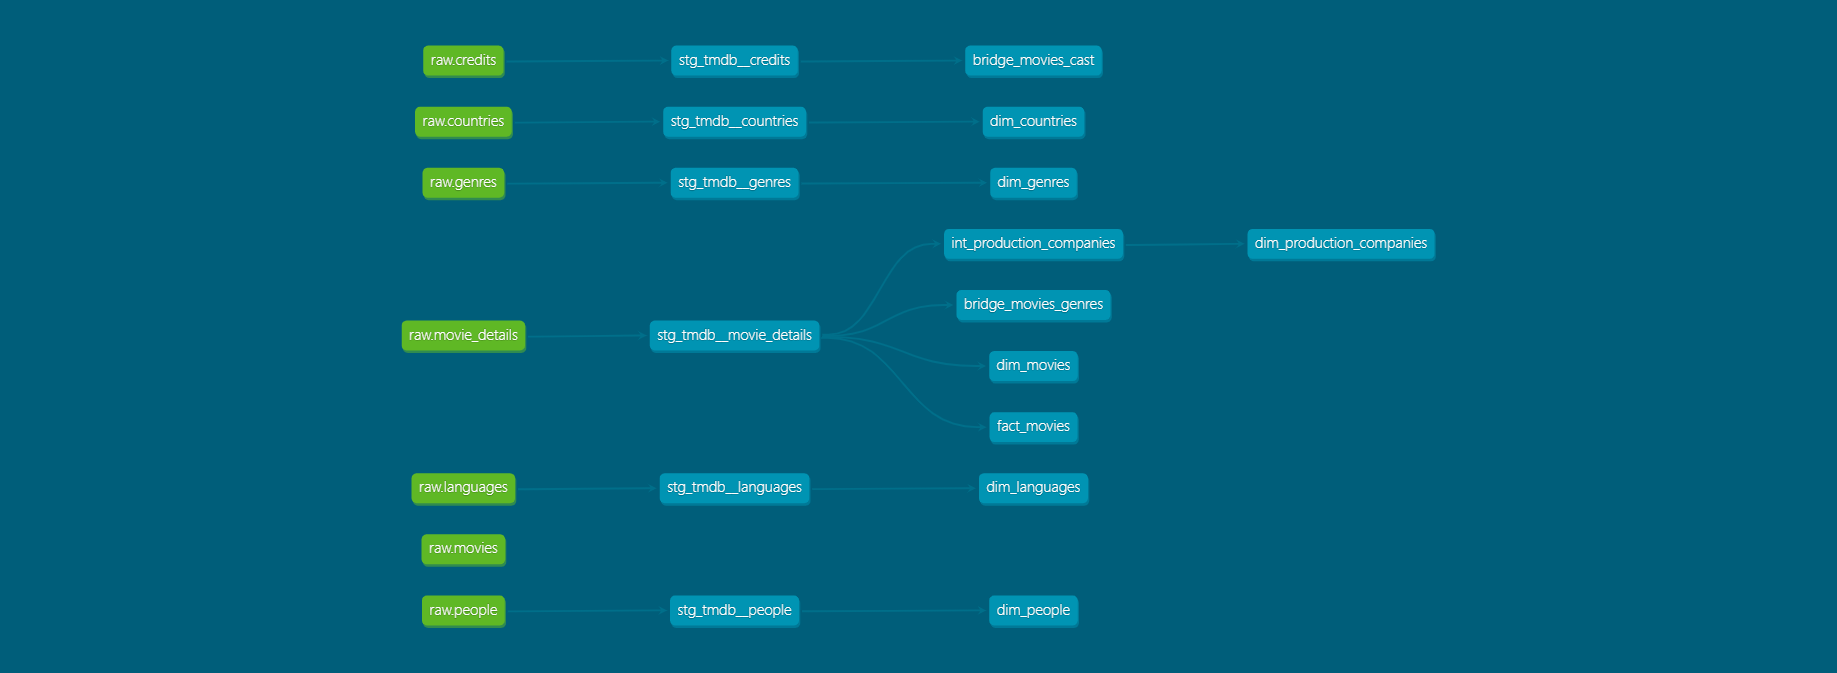
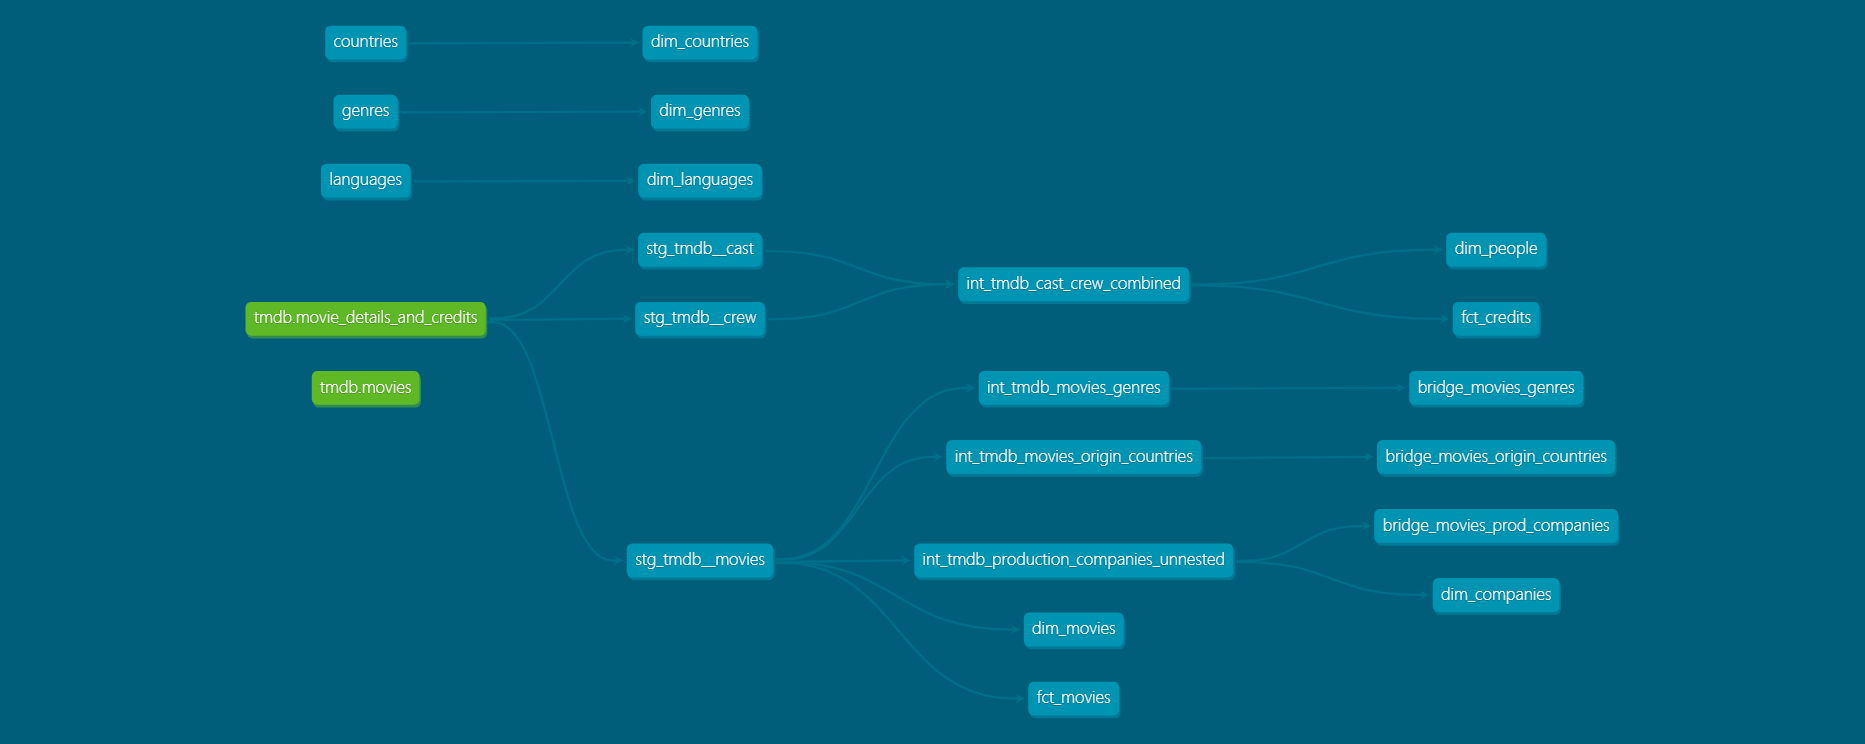
Update readme

diff --git a/README.md b/README.md
@@ -4,7 +4,7 @@
 
 # What This Is
 
-This is an end-to-end analytics pipeline built around movie data from the 2000s onward. I chose this domain because I enjoy movie analytics and wanted something meaningful to practice with. The project pulls data from the TMDB API, loads it into Postgres, and transforms it with dbt into a clean star schema that supports analyses on genres, actors, and box office performance.
+This is an end-to-end analytics pipeline built around movie data from the 2000s onward. I chose this domain because I enjoy movie analytics and wanted something meaningful to practice with. The project pulls data from the TMDB API, lands raw data in Parquet, and uses dbt (DuckDB adapter) to build a clean star schema for analytics.
 
 With this pipeline, you can run analyses such as:
 - Highest-ROI genres since the 2000s (revenue/budget)
@@ -18,7 +18,7 @@ These queries become straightforward because the project uses:
 - Data quality tests that catch common TMDB API issues such as missing people records or duplicated fields
 ## Current Status
 
-**What's working:** Core pipeline complete - Asynchronous API ingestion, dbt transformations with 17+ models, dimensional modeling with bridge tables, comprehensive data quality tests.
+**What's working:** Core pipeline complete - Asynchronous API ingestion, dbt transformations with 17 models, dimensional modeling with bridge tables, comprehensive data quality tests.
 
 **What I'm working on:** Refactoring ingestion to be modular
 
@@ -29,20 +29,23 @@ These queries become straightforward because the project uses:
 - **Data Source:** [TMDB API](https://developer.themoviedb.org/docs/getting-started)
 - **Storage:** DuckDB
 - **Transformation:** dbt core
-- **Frontend:** Rill (tentative) 
+- **Frontend:** (tentative) 
 
 
 ## How It Works
 
-This is a straightforward ELT pipeline: extract from TMDB API, load raw data into Parquet/CSV, transform with dbt, and visualize in Rill.
+This is a straightforward ELT pipeline: extract from TMDB API, load raw data into Parquet/CSV, transform with dbt, and visualize in a frontend (Rill, Tableau, etc).
 ```
-TMDB API → Python Extraction → Parquet/CSV → dbt (DuckDB) → Rill
+TMDB API → Python Extraction → Parquet/CSV → dbt (DuckDB) → Frontend
 ```
 
 **1. Data Ingestion (Python → Parquet/CSV)**
 
 Fetch data from TMDB API endpoints and write to local files:
-- **Movies and movie_details → Parquet** - Core movie data with credits appended via TMDB's `append_to_response` parameter (reduces API calls by fetching movie metadata + credits in one request)
+- **Movie details (with credits appended) → Parquet** - 
+Core movie metadata, genres, crew, and cast all in a single API call using append_to_response=credits.
+
+- **Discover movies → Parquet** used only to enumerate movie_ids
 - **Genres, countries, languages → CSV** - Static reference data loaded as dbt seed tables
 
 The extraction uses async requests to handle tens of thousands of records efficiently while respecting TMDB's rate limit (~40 requests per second). Added retry logic with exponential backoff for timeouts and network hiccups. Implemented with asyncio/aiohttp and tenacity.
@@ -65,9 +68,10 @@ Bridge tables normalize fields that are frequently filtered or aggregated (genre
 
 Every model has tests: primary key uniqueness, not-null constraints, referential integrity checks.
 
-**3. Analytics Frontend (Rill) - WIP**
+**3. Analytics Frontend (Tentative)**
 
 Building interactive dashboards to explore trends like ROI by genre, actor career earnings, and budget evolution over time.
+
 ## Data Models
 
 The project uses a **Kimball-inspired star schema** optimized for movie analytics queries.
@@ -76,10 +80,10 @@ The project uses a **Kimball-inspired star schema** optimized for movie analytic
 Analytical queries like "revenue by genre" or "top actors by box office" are just a couple of joins in a star schema vs 6-7 joins if everything was normalized. TMDB's data maps cleanly to dimensions and facts, and BI tools expect this structure.
 
 **Design decisions:**
-- **Bridge tables for cast, genres, and production_companies** - These many-to-many relationships are queried constantly ("top grossing actors", "best performing genres"), so I normalized them into proper bridge tables
-- **Exploded production companies from movie details** - TMDB's production_company endpoint was redundant with data already in movie_details, so I extracted and deduped companies directly from the nested JSON arrays in the intermediate layer
-- **JSON for less common fields** - Kept some fields such as 'spoken_languages' or 'production_countries' as JSON in `dim_movies` rather than creating additional bridge tables. These may not be queried as often and may clutter the mart layer.
-- **Popularity in `dim_people`** - Technically a metric, but currently used as a snapshot in time, so a dedicated table is unneeded for now. May change in the future if I decide to track and implement SCD2.
+- **Bridge tables for genres, production_companies, and origin_countries** - These many-to-many relationships are queried constantly ("best performing genres", "top studios by revenue", "films by country"), so I normalized them into proper bridge tables
+- **Unnested production companies from movie details** - TMDB's production_company endpoint was redundant with data already in movie_details, so I extracted and deduped companies directly from the nested JSON arrays in the intermediate layer
+- **JSON for spoken_languages, production_countries, and belongs_to_collection** - Kept these as JSON in `dim_movies` rather than creating another bridge table since it's rarely filtered on and would add unnecessary complexity
+- **Popularity as a snapshot** - Currently stored in `dim_people` as a point-in-time value. Since TMDB updates this metric daily, tracking it historically would be better suited to a dedicated `fct_popularity` table if I decide to implement time-series tracking
 
 **Key models:**
 
@@ -89,11 +93,12 @@ Analytical queries like "revenue by genre" or "top actors by box office" are jus
 - `dim_genres`, `dim_languages`, `dim_countries`, `dim_production_companies` - Reference data
 
 **Facts:**
-- `fact_movies` - Movie performance metrics: revenue, budget, vote counts (one row per movie)
+- `fct_movies` - Movie performance metrics: revenue, budget, vote counts (one row per movie)
+- `fct_credits` - Cast and crew assignments with role details (character, job title, department, cast order)
 
 **Bridges:**
-- `bridge_movies_cast` - Movies ↔ People with role details (character, cast order)
 - `bridge_movies_genres` - Movies ↔ Genres (many-to-many)
+- `bridge_movies_origin_countries` - Movies ↔ Origin Countries (many-to-many)
 - `bridge_movies_production_companies` - Movies ↔ Production Companies (many-to-many)
 
 ![dbt lineage graph](docs/images/dbt-dag.png)
@@ -103,8 +108,7 @@ Analytical queries like "revenue by genre" or "top actors by box office" are jus
 ### You'll Need
 
 - Python 3.8+
-- Docker & Docker Compose
-- dbt Core (`pip install dbt-postgres`)
+- dbt Core with DuckDB adapter (`pip install dbt-duckdb`)
 - A TMDB API key ([grab one here](https://www.themoviedb.org/settings/api))
 
 ### Setup
@@ -119,64 +123,64 @@ pip install -r requirements.txt
 **2. Environment config**
 ```bash
 cp .env.example .env
-# Edit .env with your TMDB API key and database credentials
+# Edit .env with your TMDB API key
 ```
 
-**3. Start the database**
-```bash
-docker-compose up -d
+**3. Configure dbt**
 
-# Check it's running
-docker ps
-```
-
-**4. Configure dbt**
-
-Copy the example profiles file and fill in your credentials:
+Copy the example profiles file:
 ```bash
 cp profiles.yml.example ~/.dbt/profiles.yml
-# Edit with your actual database credentials
 ```
 
 Or manually create `~/.dbt/profiles.yml`:
 ```yaml
-movie_data_analysis:
+tmdb_analytics:
   target: dev
   outputs:
     dev:
-      type: postgres
-      host: localhost
-      port: 5432
-      user: your_username
-      password: your_password
-      dbname: your_database_name
-      schema: your_schema_name
+      type: duckdb
+      path: '../data/tmdb_analytics.db'
       threads: 4
+      
+      extensions:
+        - parquet
+        - httpfs
 ```
 
-**5. Run the pipeline**
+**4. Run the pipeline**
 ```bash
-# Pull data from TMDB
+# Pull data from TMDB (writes to data/ directory)
 python ingestion/ingest_tmdb.py
 
 # Transform with dbt
 cd dbt
-dbt run
-dbt test
+dbt deps           # Install dbt packages (utils and expectations)
+dbt seed           # Load reference data (genres, languages, countries)
+dbt run            # Build models
+dbt test           # Run data quality tests
 
 # Check out the docs
 dbt docs generate
-dbt docs serve  # Opens on localhost:8080
+dbt docs serve     # Opens on localhost:8080
+```
+
+**What gets created:**
+- `data/tmdb_analytics.db` - DuckDB database with all transformed models
+- `data/*.parquet` - Raw movie and movie_details data
+- `data/seeds/*.csv` - Reference data for genres, languages, countries
 
 ## Project Structure
 
 ```
+├── data/ 
 ├── dbt/
 │   ├── models/
 │   │   ├── staging/      # Staging models and tests
 │   │   ├── intermediate/ # Intermediate models and tests
 │   │   └── marts/        # Mart models (dim/fact/bridge) and tests
-│   └── dbt_project.yml
+│   ├── dbt_project.yml
+|   └── packages.yml
 ├── ingestion/            # API Fetching and Database Loading
 ├── frontend/             # TODO
 ├── notebooks/            # Jupyter notebooks for quick EDA and data validation
@@ -184,21 +188,20 @@ dbt docs serve  # Opens on localhost:8080
 
 ## Things I Learned / Gotchas
 
-- [Something that was harder than expected]
-- [A library or pattern that saved you time]
-- [A design decision you'd change if starting over]
-- [An annoying bug or API quirk you had to work around]
+- **Async ingestion was a game-changer** - Switching from synchronous to asynchronous fetching cut ingestion time from 2+ hours to 30 minutes. The async overhead was worth it even for "just" API calls.
 
-Example:
-- "TMDB's rate limiting is aggressive - had to add exponential backoff"
-- "Bridge tables felt like overkill at first but make genre queries so much cleaner"
-- "Wish I'd used Parquet from the start instead of JSON dumps"
+- **Pragmatic trade-offs beat perfectionism** - Initially tried fetching 400k people records for accurate popularity stats (3+ hours even with async). Realized averaging existing stats was good enough. Perfect data that takes forever isn't useful.
+
+- **Parquet > CSV for messy data** - TMDB's description fields are full of newlines and special characters that broke Pandas CSV parsing. Moving to Parquet eliminated an entire class of encoding headaches.
+
+- **RTFM saves time** - Discovered TMDB's `append_to_response` parameter halfway through the project. One parameter change cut API calls in half by fetching credits alongside movie details. Always read the docs first.
+
 
 ## Running This Yourself
 
-[Any specific notes for someone who wants to clone and run this?]
+**Note:** Initial ingestion takes ~30 minutes to fetch all movie data from TMDB's API. Grab coffee while it runs.
 
-[Are you open to contributions? Is this just a learning project?]
+**Feedback welcome!** This is a learning project and I'm always looking to improve. If you spot issues or have suggestions on the modeling, pipeline design, or code structure, feel free to open an issue or reach out.
 
 ## Credits
 
